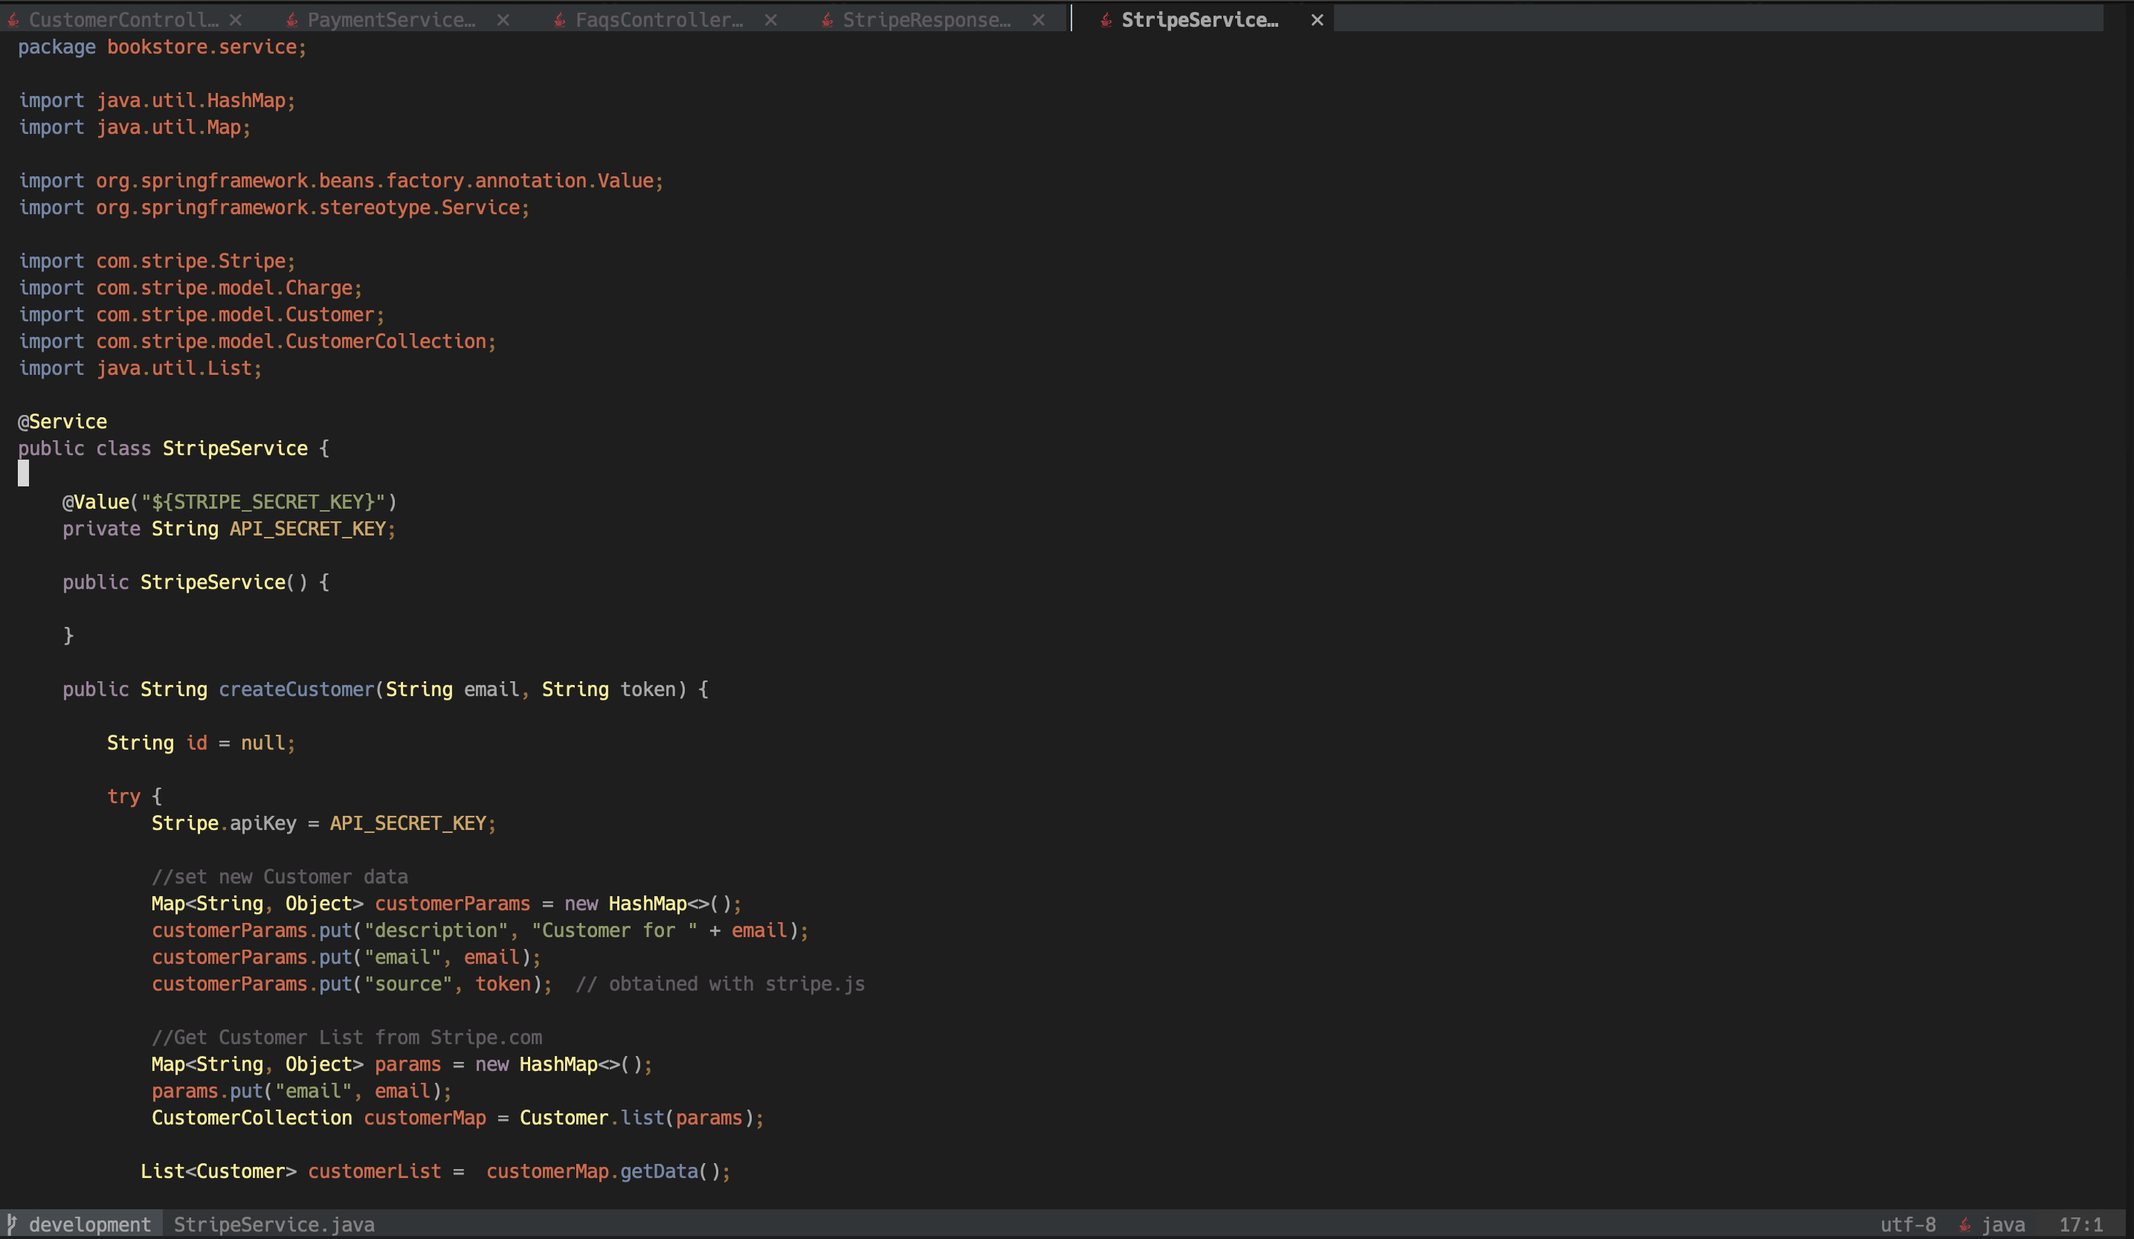
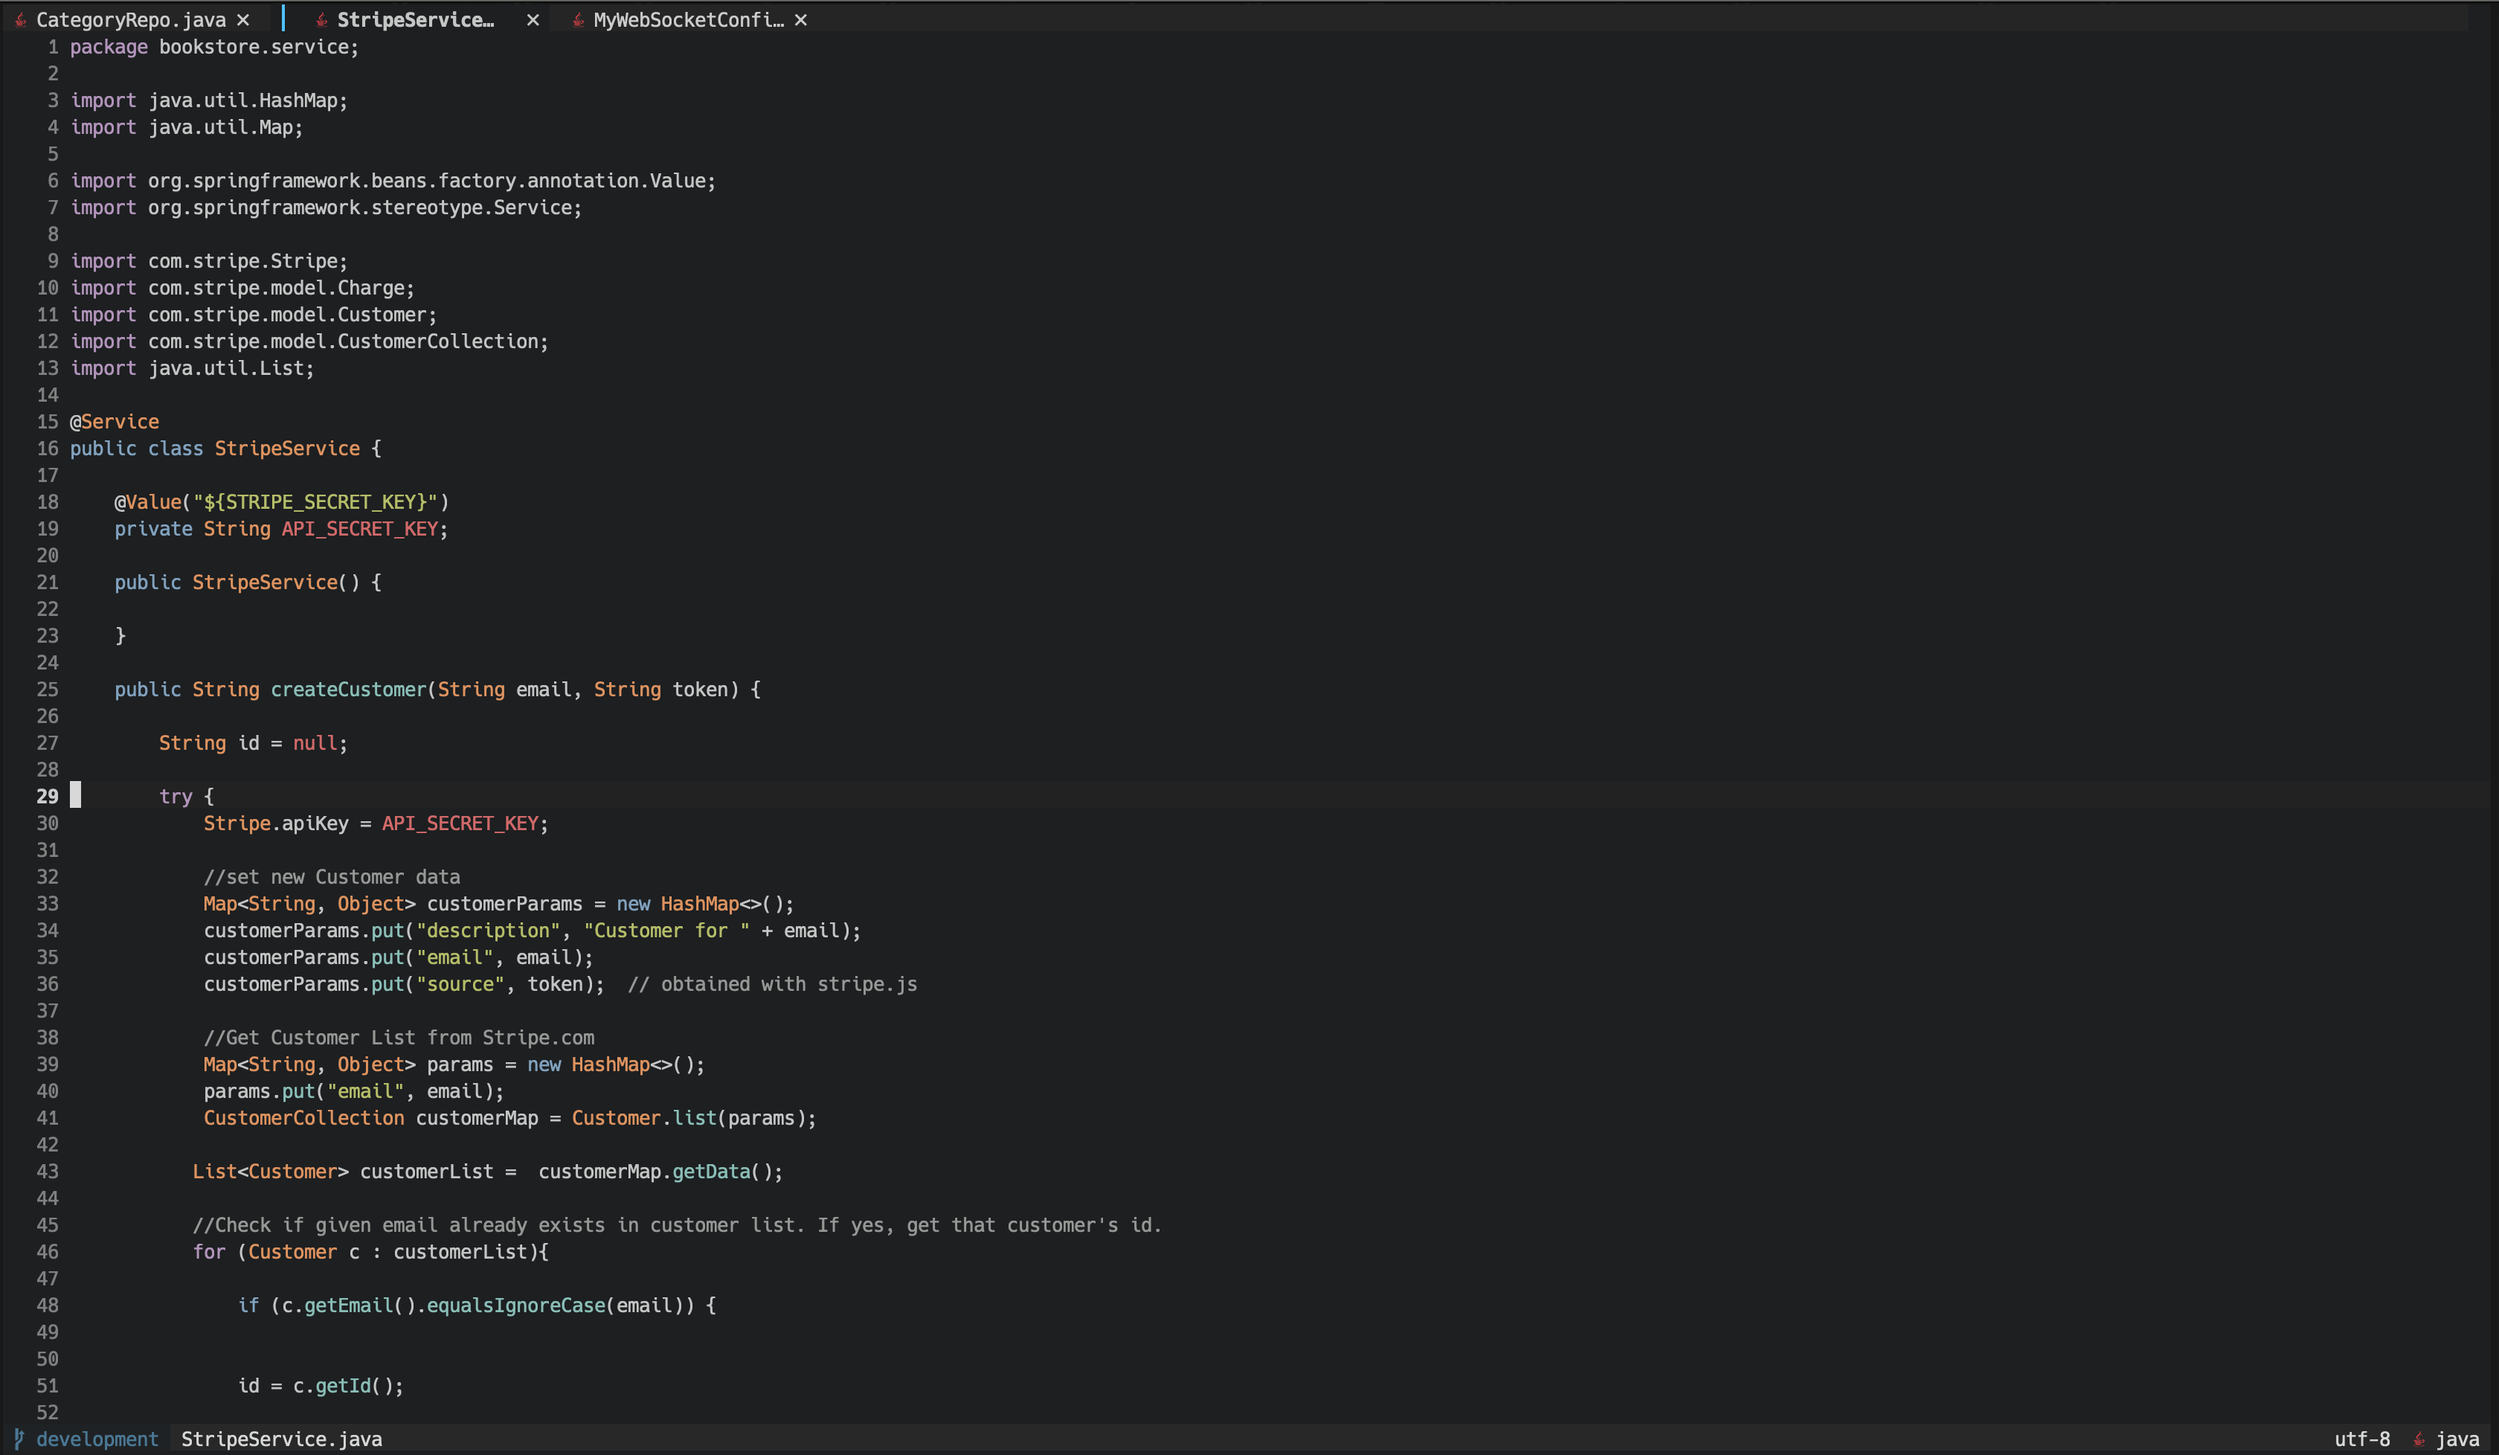
Updated showcase pics

diff --git a/README.md b/README.md
@@ -6,7 +6,7 @@ Dusk is a lightweight, aesthetically minimal Neovim config, written in Lua, able
 
 <img src="./showcase/dashboard.png" alt="Dashboard" title="Dashboard">
 <img src="./showcase/javacode.png" alt="Javacode" title="Javacode">
-<img src="./showcase/nvimtree.png" alt="Nvimtree" title="Nvimtree">
+<img src="./showcase/xmlcode.png.png" alt="xmlcode" title="xmlcode">
 
 ## Design Philosophy
 
